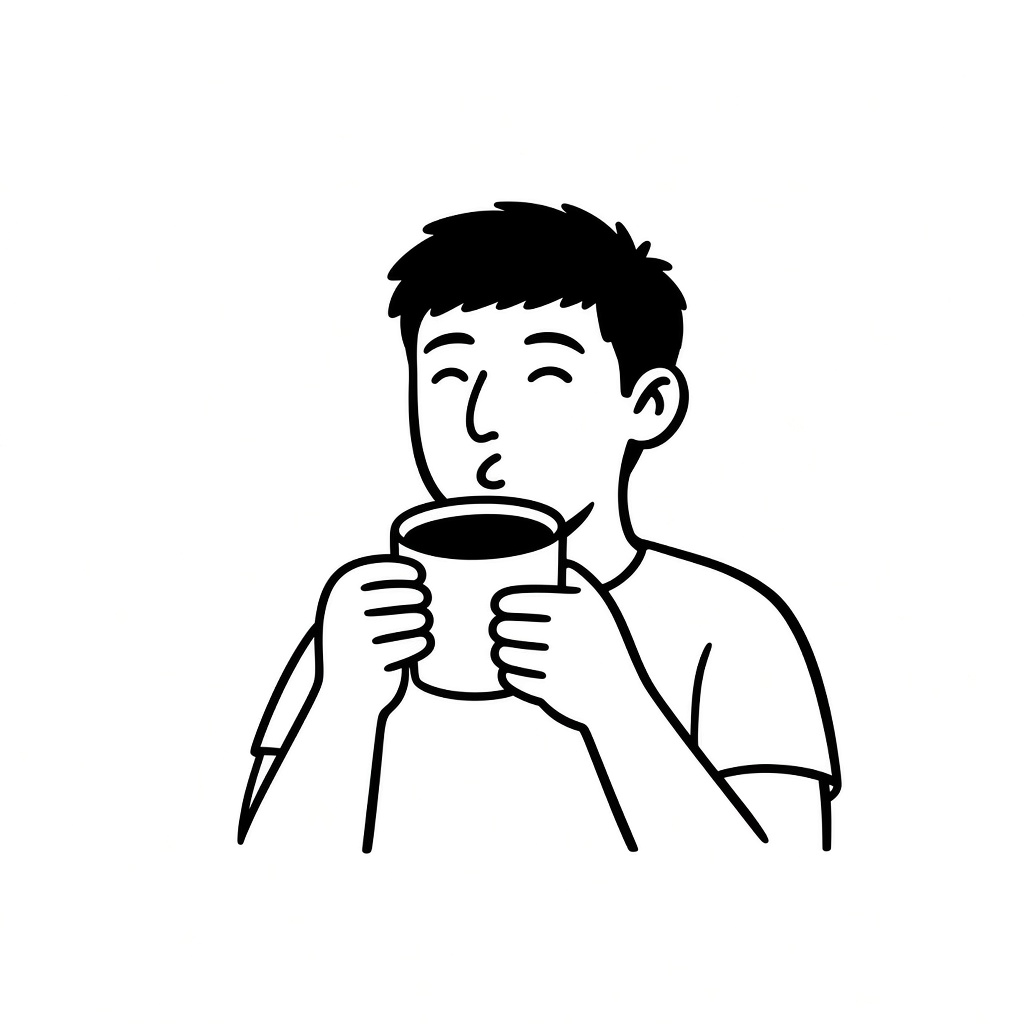
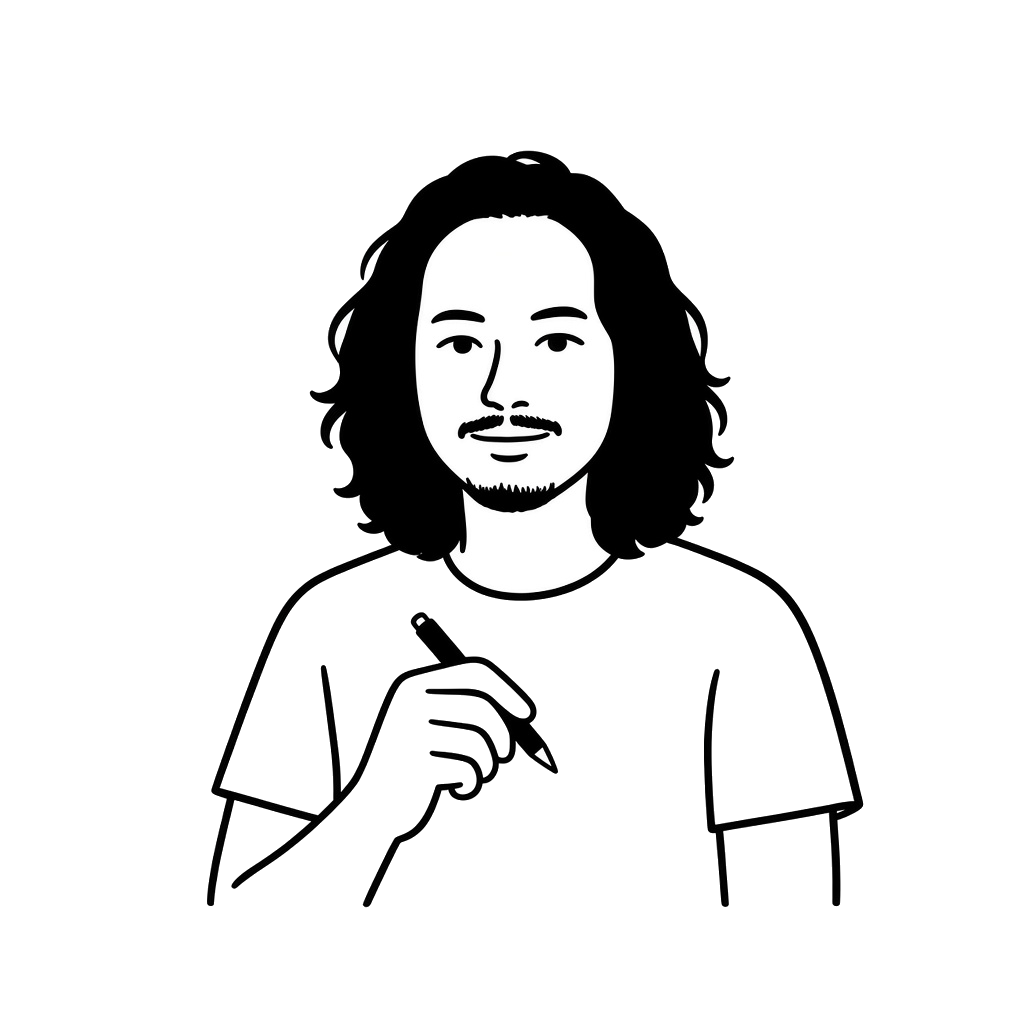
Drop Phuket from Krit and let the portraits change on hover.
Nofah keeps the sip, Maerianne faces forward, Krit has the mid-length hair. No white frame behind them.

Changed region(s): [[0.1875, 0.125, 0.8438, 0.875]]

diff --git a/story.html b/story.html
@@ -84,7 +84,7 @@
           <p>Stoked started with <a href="https://www.instagram.com/_nowfuh/" rel="noopener noreferrer">Nofah</a>, in Bulacan. The coffee landed. The shop didn’t.</p>
           <p><a href="https://www.instagram.com/lifewithmaerrr/" rel="noopener noreferrer">Maerianne</a> came in later, and staying put stopped making sense. Two people. One thing that keeps moving.</p>
           <p>Nofah pours wherever they set up. Maerianne works the other side — the posters, the story, the people who make the next stop possible.</p>
-          <p>The look is <a href="https://www.instagram.com/yeemaffffff/" rel="noopener noreferrer">Krit</a>'s. Lead artist. Illustrator and designer, out of Phuket. Also yeemaffffff.</p>
+          <p>The look is <a href="https://www.instagram.com/yeemaffffff/" rel="noopener noreferrer">Krit</a>'s. Lead artist. Illustrator and designer. Also yeemaffffff.</p>
           <p>The lid isn’t anyone. It’s the spirit. Free-spirited living. Stoked Coffee.</p>
           <p>Not a place you return to. A pop-up you find. Coffee, like life, isn’t meant to stay in one place.</p>
         </div>
@@ -94,7 +94,8 @@
         <article class="crew-card grain-paper">
           <input class="crew-check" type="checkbox" id="crew-nofah">
           <label class="crew-fig" for="crew-nofah">
-            <img src="crew-nofah.png" width="1024" height="1024" alt="">
+            <img class="fig-rest" src="crew-nofah.png" width="1024" height="1024" alt="">
+            <img class="fig-hot" src="crew-nofah-hot.png" width="1024" height="1024" alt="">
           </label>
           <p class="label">On the ground</p>
           <p class="founder-name"><a href="https://www.instagram.com/_nowfuh/" rel="noopener noreferrer">Nofah</a></p>
@@ -106,7 +107,8 @@
         <article class="crew-card grain-paper">
           <input class="crew-check" type="checkbox" id="crew-maer">
           <label class="crew-fig" for="crew-maer">
-            <img src="crew-maerianne.png" width="1024" height="1024" alt="">
+            <img class="fig-rest" src="crew-maerianne.png" width="1024" height="1024" alt="">
+            <img class="fig-hot" src="crew-maer-hot.png" width="1024" height="1024" alt="">
           </label>
           <p class="label">Behind the scenes</p>
           <p class="founder-name"><a href="https://www.instagram.com/lifewithmaerrr/" rel="noopener noreferrer">Maerianne</a></p>
@@ -118,11 +120,12 @@
         <article class="crew-card grain-paper">
           <input class="crew-check" type="checkbox" id="crew-krit">
           <label class="crew-fig" for="crew-krit">
-            <img src="crew-krit.png" width="1024" height="1024" alt="">
+            <img class="fig-rest" src="crew-krit.png" width="1024" height="1024" alt="">
+            <img class="fig-hot" src="crew-krit-hot.png" width="1024" height="1024" alt="">
           </label>
           <p class="label">Lead artist</p>
           <p class="founder-name"><a href="https://www.instagram.com/yeemaffffff/" rel="noopener noreferrer">Krit</a></p>
-          <p class="founder-role">Illustrator &amp; designer, Phuket</p>
+          <p class="founder-role">Illustrator &amp; designer</p>
           <p class="crew-aka"><a href="https://www.instagram.com/yeemaffffff/" rel="noopener noreferrer">@yeemaffffff</a></p>
           <p class="crew-more">The lines. That’s him.</p>
         </article>

diff --git a/styles.css b/styles.css
@@ -942,8 +942,8 @@ body > main {
 
 .crew {
   display: grid;
-  gap: 1rem;
-  margin: 2.5rem auto 0;
+  gap: 1.25rem;
+  margin: 3rem auto 0;
   width: 100%;
   max-width: 64rem;
   text-align: center;
@@ -953,7 +953,7 @@ body > main {
 .crew-card {
   position: relative;
   border: 6px solid var(--ink);
-  padding: 1.15rem 1rem 1.25rem;
+  padding: 1.35rem 1.1rem 1.4rem;
   min-width: 0;
   display: flex;
   flex-direction: column;
@@ -975,9 +975,10 @@ body > main {
   display: flex;
   align-items: center;
   justify-content: center;
+  position: relative;
   width: 100%;
-  height: 13rem;
-  margin: 0 auto 0.85rem;
+  height: 13.5rem;
+  margin: 0 auto 1rem;
   cursor: pointer;
   flex-shrink: 0;
 }
@@ -988,15 +989,27 @@ body > main {
   width: auto;
   height: auto;
   max-width: 100%;
-  max-height: 13rem;
+  max-height: 13.5rem;
   object-fit: contain;
 }
 
-.crew-fig img {
-  mix-blend-mode: multiply;
+.crew-fig .fig-hot {
+  position: absolute;
+  left: 50%;
+  top: 50%;
+  transform: translate(-50%, -50%);
+  visibility: hidden;
 }
 
-.crew-fig-lid { height: 13rem; }
+.crew-card:hover .fig-rest,
+.crew-card:focus-within .fig-rest,
+.crew-card:has(.crew-check:checked) .fig-rest { visibility: hidden; }
+
+.crew-card:hover .fig-hot,
+.crew-card:focus-within .fig-hot,
+.crew-card:has(.crew-check:checked) .fig-hot { visibility: visible; }
+
+.crew-fig-lid { height: 13.5rem; }
 
 .crew-fig .steam { opacity: 0; }
 
